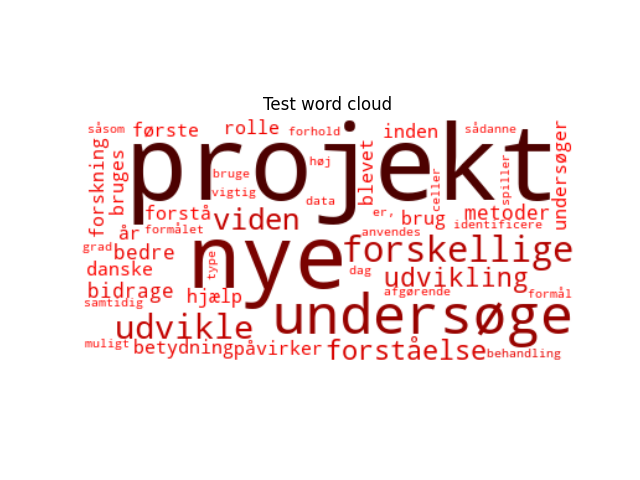
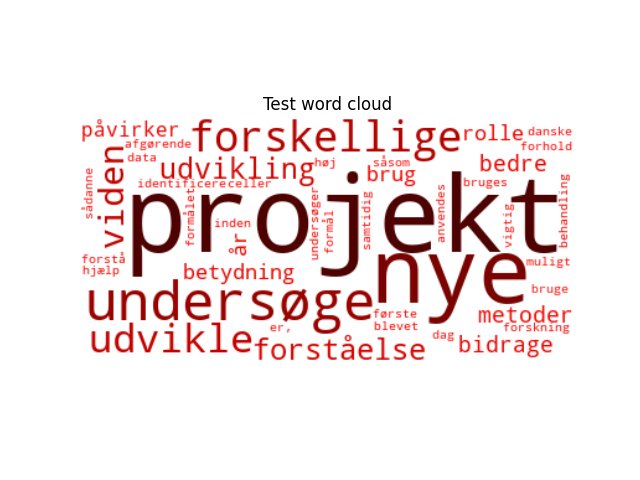
color for charts

Changed region(s): [[0.125, 0.25, 0.9062, 0.75]]

diff --git a/christoffer/test_visualizations.py b/christoffer/test_visualizations.py
@@ -14,7 +14,7 @@ Example wordclouds -- How to use
 >>> w_cloud = create_wordcloud(size_dict = funding,
                                color_dict = freqs)
 """
-
+"""
 dataframe = pd.read_csv("../gustav/dff.csv")
 avg_funding, funding, freqs = generate_data(df = dataframe,
                                             funding_thresh_hold = 0)
@@ -53,7 +53,7 @@ plot_wc(wordcloud = wc,
 # Bubble charts #
 #################
 df = pd.read_csv("../gustav/dff.csv")
-TOP_N = 25
+TOP_N = 200
 top_funded_df = gen_bubble_data(df,
                                 top_n= TOP_N,
                                 sort_col = "funding") # The the top 25 words with highes absolute funding
@@ -87,3 +87,5 @@ fig = create_bubble_plot(df = words_df,
                           size_lab = "Combined Funding for all Grants Containing Word",
                           color_lab = "Combined Funding for all Grants Containing Word")
 fig.write_html("output/bubble_test_specific_words.html", auto_play = False)
+"""
+

diff --git a/christoffer/text_viz.py b/christoffer/text_viz.py
@@ -259,6 +259,7 @@ def create_wordcloud(size_dict: dict,
                           collocations = bigrams, # Allow / disallow bigrams
                           contour_color = "black",
                           relative_scaling = 1,
+                          background_color=None,
                           min_font_size = 10).generate_from_frequencies(size_dict)
     
     word_freqs = wordcloud.words_ if color_dict is None else color_dict
